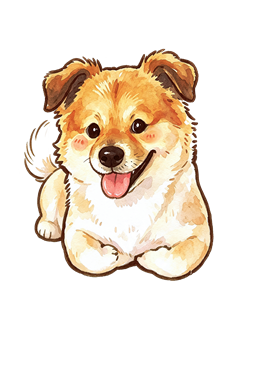
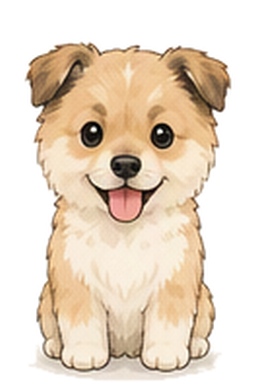
替换小多利宠物形象

diff --git a/docs/features/assets-and-performance.md b/docs/features/assets-and-performance.md
@@ -36,6 +36,7 @@ flowchart LR
 - “我的”页面列表图标位于 `public/me/`，使用 128×128 透明 PNG，随该页面按需加载。
 - 塔罗资源下载完成后以固定 2 路并发调用浏览器图片解码；只有 24 项资源全部可直接绘制时，进度才允许达到 100%。
 - 塔罗 CSS 背景和牌背通过运行时 CSS 变量引用资源清单 URL，避免下载 COS 资源后又从应用服务器重复请求同源图片。
+- 小多利运行时资源位于 `public/pet/`：`xiaoduoli.png` 和 `xiaoduoli-startup.png` 保留透明背景，`xiaoduoli-large.jpg` 与 `xiaoduoli-small.jpg` 使用暖白背景铺底；四张图均取自同一张正面原色角色设定图，保持头像和启动页形象一致。
 
 ## 常见问题
 
@@ -66,4 +67,6 @@ flowchart LR
 - [ ] COS 响应包含允许站点来源的 CORS 头。
 - [ ] COS 公共基址使用版本目录，更新图片时切换版本目录。
 - [ ] `public/me/` 图标保持透明背景且单张不超过通用运行时图片预算。
+- [ ] 小多利头像无设定图文字、旁侧角色残片或背景边缘。
+- [ ] 小多利 PNG 保持透明背景，JPG 不出现黑色透明区域。
 - [ ] `npm run check:assets` 通过。
